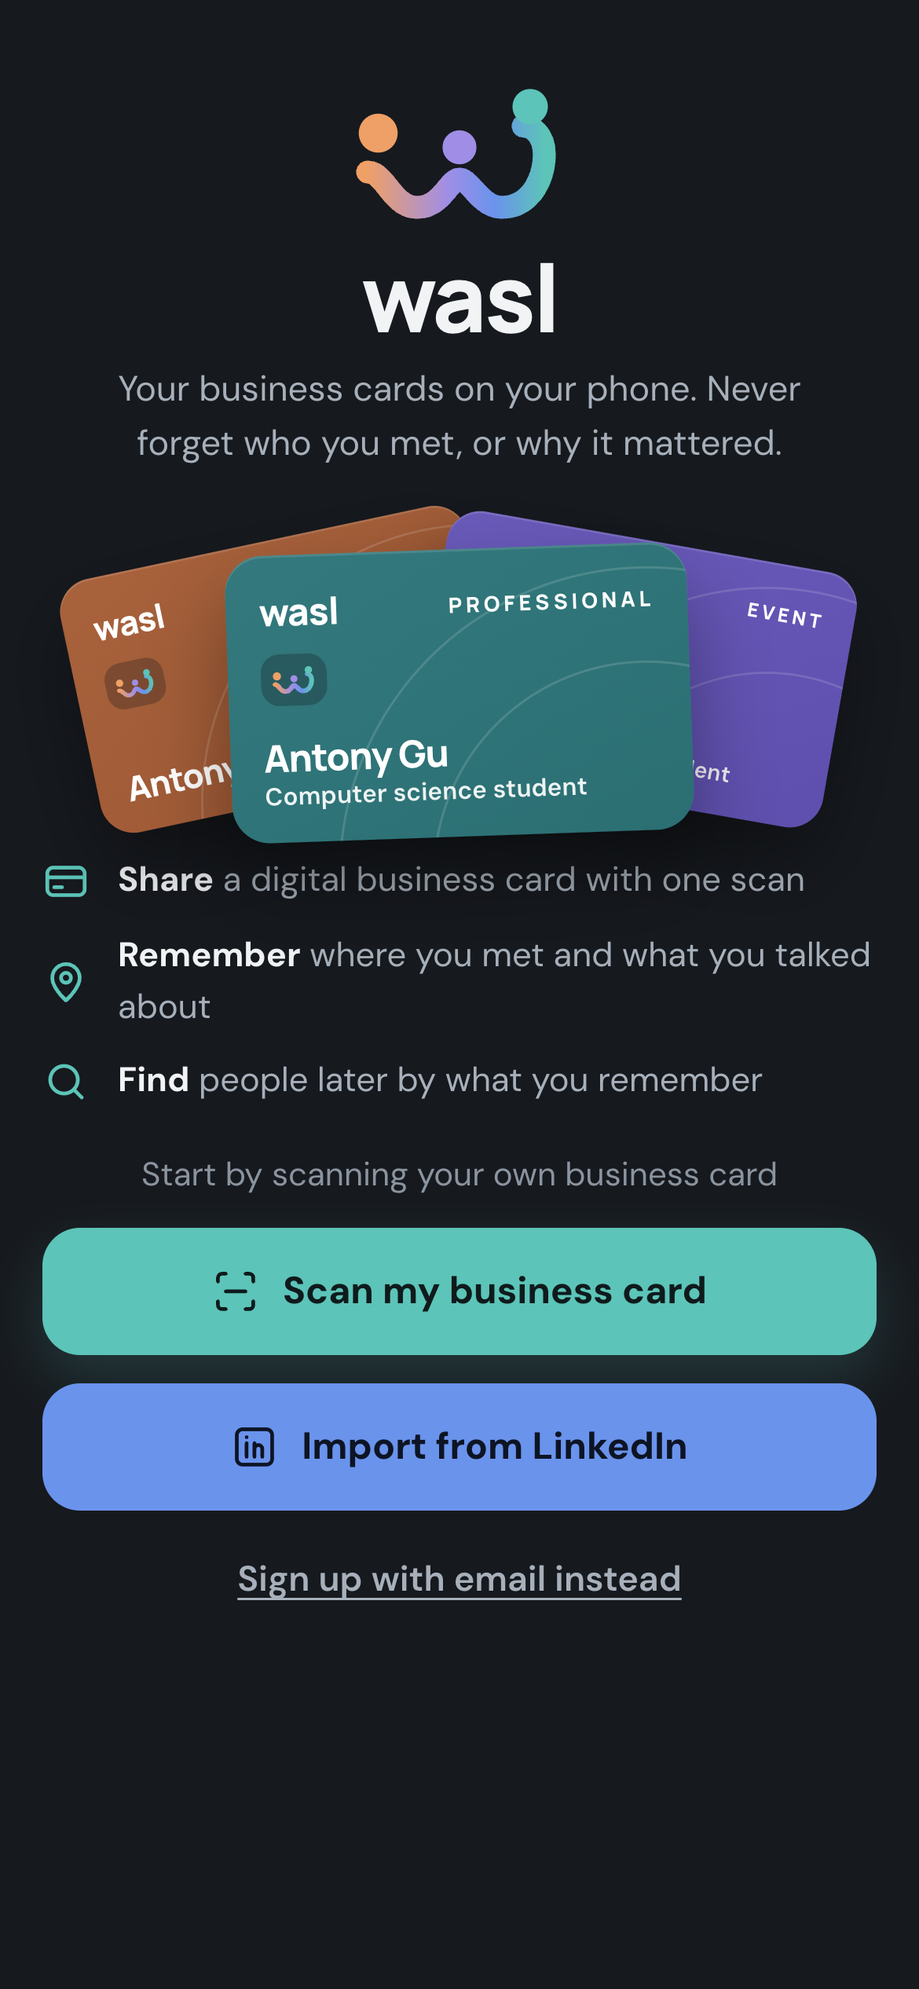
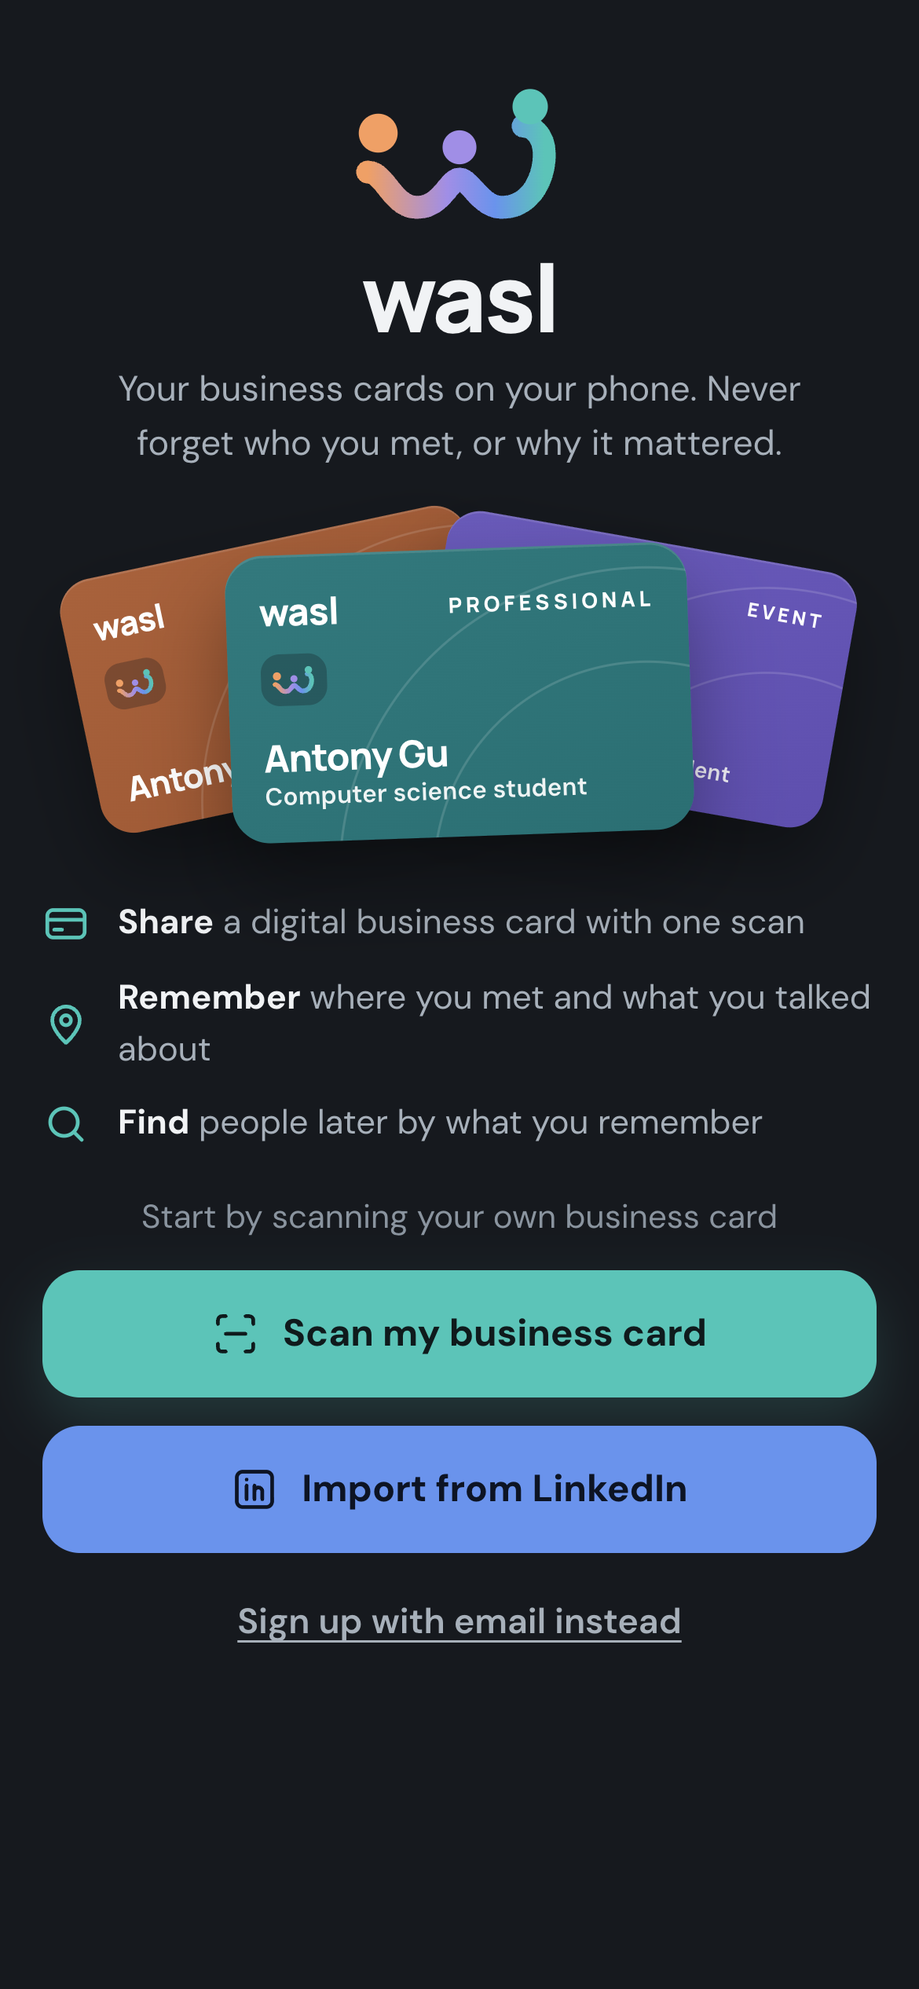
Fix Deema's mockup points: no name before the scan, card text no longer overlaps, editable meeting place, every person opens, search ranks by saved tags and finds names, more room on the join screen

Changed region(s): [[0.0308, 0.4368, 0.9538, 0.8424]]

diff --git a/public/mockup/index.html b/public/mockup/index.html
@@ -304,9 +304,8 @@ h1, h2, h3 { font-family: var(--display); text-wrap: balance; }
   border-radius: 22px;
   padding: 16px 18px;
   color: var(--card-text);
-  overflow: hidden;
+  overflow: clip;
   aspect-ratio: 1.6 / 1;
-  min-height: 0;
   max-width: 100%;
   display: flex; flex-direction: column;
   box-shadow: 0 18px 34px rgba(0, 0, 0, 0.35), inset 0 1px 0 rgba(255, 255, 255, 0.12);
@@ -314,6 +313,7 @@ h1, h2, h3 { font-family: var(--display); text-wrap: balance; }
   border: 0;
   width: 100%;
 }
+.card > * { flex-shrink: 0; }
 .card::before, .card::after {
   content: "";
   position: absolute;
@@ -372,7 +372,7 @@ h1, h2, h3 { font-family: var(--display); text-wrap: balance; }
 .join-hero svg.big { width: 96px; height: 62px; }
 .join-hero .wm { font-family: var(--display); font-weight: 800; font-size: 40px; letter-spacing: -1.2px; line-height: 1; }
 .join-hero p { color: var(--text-2); max-width: 30ch; }
-.fan { position: relative; height: 150px; margin: 10px 0 4px; }
+.fan { position: relative; height: 150px; margin: 10px 0 22px; }
 .what { list-style: none; margin: 0; padding: 0; display: grid; gap: 10px; }
 .what li { display: flex; align-items: center; gap: 12px; font-size: 14.5px; color: var(--text-2); }
 .what li svg { width: 20px; height: 20px; color: var(--teal); flex: none; }
@@ -505,6 +505,9 @@ h1, h2, h3 { font-family: var(--display); text-wrap: balance; }
 .choice > svg { width: 18px; height: 18px; color: var(--muted); margin-left: auto; flex: none; }
 .sharing { margin-top: 22px; }
 .sharing .card { max-width: 300px; margin: 8px auto 0; }
+.card.waiting { background: transparent; box-shadow: none; border: 2px dashed var(--line); color: var(--text-2); display: grid; place-content: center; justify-items: center; gap: 10px; text-align: center; font-size: 14px; }
+.card.waiting::before, .card.waiting::after { display: none; }
+.card.waiting svg { width: 34px; height: 34px; color: var(--muted); }
 .exchange .pulse { position: absolute; left: 50%; top: 50%; width: 52px; height: 52px; margin: -26px; border-radius: 50%; display: grid; place-items: center; background: var(--raised); color: var(--teal); z-index: 2; }
 .exchange .pulse svg { width: 24px; height: 24px; }
 .exchange.swapping .pulse { animation: buzz 120ms linear 6; }
@@ -786,11 +789,11 @@ h1, h2, h3 { font-family: var(--display); text-wrap: balance; }
     { id: "sara", name: "Sara Nasser", role: "Talent partner", org: "Corniche Capital", contacts: ["sara@corniche.example"], color: "team", kind: "PROFESSIONAL", note: "Runs their internship program" },
   ];
   const OLDER = [
-    { name: "Hamad Al-Thani", role: "Mentor, venture studio", org: "Bayt Ventures", event: "Web Summit Qatar", tag: "Mentor", color: "pro", when: "Oct 12" },
-    { name: "Noor Saleh", role: "UX researcher", org: "Dhow Design Studio", event: "Web Summit Qatar", tag: "Follow up", color: "event", when: "Oct 12" },
-    { name: "Daniel Okafor", role: "CMU-Q alum, SWE", org: "Pearl Labs", event: "CMU-Q alumni mixer", tag: "Intro offered", color: "team", when: "Sep 28" },
-    { name: "Aisha Rahman", role: "Product manager", org: "Falcon Analytics", event: "CMU-Q alumni mixer", tag: "Hiring", color: "social", when: "Sep 28" },
-    { name: "Karim Mansour", role: "Investor", org: "Corniche Capital", event: "Web Summit Qatar", tag: "Investor", color: "pro", when: "Oct 12" },
+    { id: "hamad", name: "Hamad Al-Thani", role: "Mentor, venture studio", org: "Bayt Ventures", event: "Web Summit Qatar", tag: "Mentor", color: "pro", when: "Oct 12" },
+    { id: "noor", name: "Noor Saleh", role: "UX researcher", org: "Dhow Design Studio", event: "Web Summit Qatar", tag: "Follow up", color: "event", when: "Oct 12" },
+    { id: "daniel", name: "Daniel Okafor", role: "CMU-Q alum, SWE", org: "Pearl Labs", event: "CMU-Q alumni mixer", tag: "Intro offered", color: "team", when: "Sep 28" },
+    { id: "aisha", name: "Aisha Rahman", role: "Product manager", org: "Falcon Analytics", event: "CMU-Q alumni mixer", tag: "Hiring", color: "social", when: "Sep 28" },
+    { id: "karim", name: "Karim Mansour", role: "Investor", org: "Corniche Capital", event: "Web Summit Qatar", tag: "Investor", color: "pro", when: "Oct 12" },
   ];
   const LOGOS = {
     "Pearl Labs": ["PL", "#1f4fa3"],
@@ -812,6 +815,8 @@ h1, h2, h3 { font-family: var(--display); text-wrap: balance; }
     const words = org.split(/\s+/).filter((w) => /^[A-Za-z]/.test(w) && !/^(of|in|the|and|for|at|&)$/i.test(w));
     return words.slice(0, 3).map((w) => w[0].toUpperCase()).join("") || org.slice(0, 2).toUpperCase();
   }
+  const CTX_EVENTS = ["Campus networking night", "CMU-Q alumni mixer", "Web Summit Qatar", "Coffee chat"];
+  const CTX_PLACES = ["Education City, Doha", "Msheireb Downtown", "Online"];
   const TAGS = ["Hiring", "Intro offered", "Follow up", "Mentor", "Investor", "Co-founder"];
   const SUGGESTIONS = [
     "the engineer who offered me an intro to her CTO",
@@ -841,6 +846,9 @@ h1, h2, h3 { font-family: var(--display); text-wrap: balance; }
     mariamSaved: false,
     ctxConfirmed: false,
     tags: [],
+    ctx: { event: "Campus networking night", place: "Education City, Doha", edited: false },
+    notes: {}, // notes typed on other people's pages, by person id
+    personId: null,
     consent: false,
     rec: "idle", // idle | recording | summarizing
     summary: false,
@@ -1106,7 +1114,7 @@ h1, h2, h3 { font-family: var(--display); text-wrap: balance; }
 
     exchange() {
       const kind = kindName(S.front);
-      // first ask whether the other person has Wasl, so Mariam only appears when she does
+      // first ask whether the other person has Wasl; nobody is named until their code is scanned
       if (S.exPhase === "ask")
         return `${back("wallet", "Cards")}
           <h2 class="title" style="font-size:26px">Share your ${kind} card</h2>
@@ -1124,7 +1132,7 @@ h1, h2, h3 { font-family: var(--display); text-wrap: balance; }
           <div style="margin:18px 0">${personCard(p)}</div>
           <div class="stack">
             <button class="btn" data-go="network">${ic("network")}Open my network</button>
-            <button class="link" data-go="exchange-swap">Swap cards with Mariam instead</button>
+            <button class="link" data-go="exchange-reset">Share with someone else</button>
           </div>`;
       }
       if (S.exPhase === "paper")
@@ -1153,14 +1161,14 @@ h1, h2, h3 { font-family: var(--display); text-wrap: balance; }
           <div style="margin:18px 0">${personCard(MARIAM)}</div>
           <button class="btn" data-go="save">${ic("check")}Save Mariam</button>`;
       return `${back("exchange-reset", "Back")}
-        <h2 class="title" style="font-size:26px">Swap cards with Mariam</h2>
-        <p class="sub">Scan Mariam's code, or let her scan yours.</p>
+        <h2 class="title" style="font-size:26px">Swap cards</h2>
+        <p class="sub">Scan their Wasl code, or let them scan yours.</p>
         <div class="row" style="margin-top:14px">
           <div style="width:72px;height:72px;flex:none">${qrSvg(7)}</div>
-          <button class="btn" data-act="do-swap" ${S.exPhase === "swapping" ? "disabled" : ""}>${ic("scan")}Scan Mariam's code</button>
+          <button class="btn" data-act="do-swap" ${S.exPhase === "swapping" ? "disabled" : ""}>${ic("scan")}Scan their code</button>
         </div>
         <div class="exchange ${S.exPhase === "swapping" ? "swapping" : ""}" id="exchange">
-          <div class="slot theirs"><div class="who">Mariam's phone</div>${personCard(MARIAM)}</div>
+          <div class="slot theirs"><div class="who">Their phone</div>${S.exPhase === "swapping" ? personCard(MARIAM) : `<div class="card waiting">${ic("qr")}<span>Their card shows up after you scan</span></div>`}</div>
           <div class="pulse">${ic("swap")}</div>
           <div class="slot yours"><div class="who">Your card</div>${card(S.front)}</div>
         </div>`;
@@ -1173,8 +1181,8 @@ h1, h2, h3 { font-family: var(--display); text-wrap: balance; }
         <p class="sub">${confirmed ? "Saved. Add a tag so you remember why." : "From your calendar and location. Just confirm it."}</p>
         <div style="margin:16px 0">${personCard(MARIAM)}</div>
         <div class="panel ctx">
-          <div class="item">${ic("calendar")}<div><b>Campus networking night</b><span class="src">From your calendar</span></div></div>
-          <div class="item">${ic("pin")}<div><b>Education City, Doha</b><span class="src">From your location</span></div></div>
+          <div class="item">${ic("calendar")}<div><b>${esc(S.ctx.event)}</b><span class="src">${S.ctx.edited ? "You picked this" : "From your calendar"}</span></div></div>
+          <div class="item">${ic("pin")}<div><b>${esc(S.ctx.place)}</b><span class="src">${S.ctx.edited ? "You picked this" : "From your location"}</span></div></div>
           <div class="item">${ic("clock")}<div><b>Tonight, 7:40 PM</b><span class="src">When you swapped cards</span></div></div>
           ${confirmed ? `<div class="confirmed" style="margin-top:6px">${ic("check")}Saved to Mariam's story</div>` : `<div class="row" style="margin-top:8px"><button class="btn small" data-act="confirm-ctx">${ic("check")}That's right</button><button class="btn small secondary" data-act="change-ctx">Change</button></div>`}
         </div>
@@ -1191,7 +1199,7 @@ h1, h2, h3 { font-family: var(--display); text-wrap: balance; }
       return `${back("network", "Network")}
         <div style="margin:8px 0 12px">${personCard(MARIAM)}</div>
         <div class="chips" style="margin-bottom:14px">
-          <span class="chip">${ic("calendar")}${S.ctxConfirmed ? "Campus networking night" : "Where did you meet?"}</span>
+          <span class="chip">${ic("calendar")}${S.ctxConfirmed ? esc(S.ctx.event) : "Where did you meet?"}</span>
           ${S.tags.map((t) => `<span class="chip" aria-pressed="true">${ic("tag")}${t}</span>`).join("")}
         </div>
         <div class="label">Memory</div>
@@ -1273,6 +1281,23 @@ h1, h2, h3 { font-family: var(--display); text-wrap: balance; }
         <div style="margin-top:6px">${list}</div>`;
     },
 
+    person() {
+      const p = peopleList().find((x) => x.id === S.personId);
+      if (!p) return `${back("network", "Network")}<p class="sub">This person isn't in your network anymore.</p>`;
+      const note = S.notes[p.id] || p.note;
+      const contacts = p.contacts || [];
+      return `${back("network", "Network")}
+        <div style="margin:8px 0 12px">${personCard({ ...p, contacts: contacts.length ? contacts : [p.event] })}</div>
+        <div class="chips" style="margin-bottom:14px">
+          ${p.event ? `<span class="chip">${ic("calendar")}${esc(p.event)}</span>` : ""}
+          ${p.tag ? `<span class="chip" aria-pressed="true">${ic("tag")}${esc(p.tag)}</span>` : ""}
+          ${p.when ? `<span class="chip">${ic("clock")}${esc(p.when)}</span>` : ""}
+        </div>
+        <div class="label">Memory</div>
+        <div class="panel" style="margin-top:8px">${note ? `<p style="margin:0">${esc(note)}</p>` : `<p class="sub" style="margin:0">Nothing saved yet. Add what you talked about so you can find ${esc(p.name.split(" ")[0])} later.</p>`}</div>
+        <button class="btn secondary" style="margin-top:14px" data-act="type-note">${ic("plus")}${note ? "Change the note" : "Add a note"}</button>`;
+    },
+
     album() {
       const a = albums().find((x) => x.name === S.album) || albums()[0];
       const ps = peopleList().filter(a.match);
@@ -1324,7 +1349,7 @@ h1, h2, h3 { font-family: var(--display); text-wrap: balance; }
   function peopleList() {
     const tonight = TONIGHT.map((p) => ({
       ...p,
-      event: "Campus networking night",
+      event: p.id === "mariam" ? S.ctx.event : "Campus networking night",
       tag: p.id === "mariam" ? (S.tags[0] || "Intro offered") : p.id === "sara" ? "Hiring" : p.id === "yousef" ? "Co-founder" : "Follow up",
       when: "Tonight",
       fav: S.debrief[p.id] === "fav",
@@ -1347,7 +1372,7 @@ h1, h2, h3 { font-family: var(--display); text-wrap: balance; }
   }
   function personRow(p) {
     const initials = p.name.split(" ").map((w) => w[0]).slice(0, 2).join("");
-    const act = p.id === "mariam" ? 'data-go="remember"' : "";
+    const act = p.id === "mariam" ? 'data-go="remember"' : `data-act="open-person" data-pid="${esc(p.id)}"`;
     return `<li><button class="person" ${act}><span class="mini" style="background:var(--card-${p.color})">${initials}</span><span class="pv"><b>${esc(p.name)}</b><span>${esc(p.hideWork ? p.contacts.join(" · ") : `${p.role} · ${p.org}`)}</span></span>${p.fav ? ic("star", 'class="star"') : ""}<span class="label" style="flex:none">${esc(p.when)}</span></button></li>`;
   }
   // words that matter in a question, cut to a short stem so "intro" matches "introduce"
@@ -1365,7 +1390,7 @@ h1, h2, h3 { font-family: var(--display); text-wrap: balance; }
     const has = (...w) => w.some((x) => t.includes(x));
     const m = TONIGHT;
     const out = [];
-    const memSrc = () => (S.memory && S.memory.source === "voice" ? "Your recorded chat · Campus networking night, tonight" : S.memory && S.memory.source === "note" ? "Your note · Campus networking night, tonight" : "Your chat summary · Campus networking night, tonight");
+    const memSrc = () => `${S.memory && S.memory.source === "voice" ? "Your recorded chat" : S.memory && S.memory.source === "note" ? "Your note" : "Your chat summary"} · ${S.ctx.event}, tonight`;
     const hit = memoryHit(q);
     const older = (i, contacts, kind) => ({ ...OLDER[i], contacts, kind });
     if (has("going", "attend", "summit")) {
@@ -1373,8 +1398,12 @@ h1, h2, h3 { font-family: var(--display); text-wrap: balance; }
       out.push({ p: older(4, ["karim@corniche.example"], "PROFESSIONAL"), label: "Going · worth meeting", score: 92, why: "Investor you met at Web Summit Qatar. You tagged him Investor.", src: "Event guest list · Web Summit Qatar, Nov 4" });
       out.push({ p: older(0, ["linkedin.com/in/hamadalthani"], "PROFESSIONAL"), label: "Also going", score: 80, why: "Mentor at Bayt Ventures. Offered to review your pitch.", src: "Event guest list · Web Summit Qatar, Nov 4" });
     } else if (has("cto", "intro", "engineer", "pearl", "payments")) {
-      out.push({ p: m[0], score: 94, why: hit || "Software engineer at Pearl Labs", src: hit ? memSrc() : "Her card · Campus networking night, tonight" });
-      if (has("intro")) out.push({ p: { ...OLDER[2], contacts: ["daniel@pearllabs.example"], kind: "PROFESSIONAL" }, score: 61, why: "Tagged Intro offered", src: "Your tag · CMU-Q alumni mixer, Sep 28" });
+      // rank by what you actually saved: a memory or an "Intro offered" tag beats a job title
+      const asksIntro = has("cto", "intro");
+      if (hit) out.push({ p: m[0], score: 94, why: hit, src: memSrc() });
+      else if (asksIntro && S.mariamSaved && S.tags.includes("Intro offered")) out.push({ p: m[0], score: 86, why: "Tagged Intro offered", src: `Your tag · ${S.ctx.event}, tonight` });
+      else if (has("engineer", "pearl", "payments")) out.push({ p: m[0], score: asksIntro ? 58 : 90, why: "Software engineer at Pearl Labs", src: `Her card · ${S.ctx.event}, tonight` });
+      if (asksIntro) out.push({ p: { ...OLDER[2], contacts: ["daniel@pearllabs.example"], kind: "PROFESSIONAL" }, score: 88, why: "Tagged Intro offered", src: "Your tag · CMU-Q alumni mixer, Sep 28" });
     } else if (has("design", "portfolio")) {
       out.push({ p: m[1], score: 91, why: "Showed his portfolio app", src: "Your memory · Campus networking night, tonight" });
     } else if (has("hiring", "intern", "job", "recruit")) {
@@ -1387,8 +1416,17 @@ h1, h2, h3 { font-family: var(--display); text-wrap: balance; }
     }
     // anything Mariam said in your recorded chat or note
     if (hit && !out.some((r) => r.p.id === "mariam")) out.unshift({ p: m[0], score: 86, why: hit, src: memSrc() });
+    // a name you remember, even just the last name
+    const words = new Set((t.match(/[a-z]+/g) || []).filter((w) => w.length > 2));
+    for (const p of peopleList()) {
+      if (out.some((r) => r.p.id === p.id)) continue;
+      const nameHit = p.name.toLowerCase().split(/[\s-]+/).find((w) => words.has(w));
+      if (nameHit) out.push({ p, score: 97, why: `Name: ${p.name}`, src: `${p.kind === "PAPER CARD" ? "Scanned paper card" : "Their card"} · ${p.event || "Your network"}${p.when ? ", " + p.when.toLowerCase() : ""}` });
+      else if (S.notes[p.id] && overlap(q, S.notes[p.id]) > 0) out.push({ p, score: 85, why: S.notes[p.id], src: `Your note · ${p.event || "Your network"}` });
+    }
     // people you scanned from paper cards, by what they do or where they work
     for (const sp of S.scanned) {
+      if (out.some((r) => r.p.id === sp.id)) continue;
       const n = overlap(q, `${sp.role} ${sp.org}`);
       if (n > 0) out.push({ p: sp, score: Math.min(95, 70 + n * 10), why: [sp.role, sp.org].filter(Boolean).join(" at "), src: "Scanned paper card · Campus networking night, tonight" });
     }
@@ -1400,7 +1438,7 @@ h1, h2, h3 { font-family: var(--display); text-wrap: balance; }
   const tabbar = document.getElementById("tabbar");
   const overlay = document.getElementById("overlay");
   const TABS = [["network", "Network"], ["wallet", "Cards"], ["recall", "Search"], ["profile", "Profile"], ["settings", "Settings"]];
-  const TAB_OF = { network: "network", album: "network", debrief: "network", remember: "network", wallet: "wallet", build: "wallet", exchange: "wallet", scanner: "wallet", save: "wallet", recall: "recall", profile: "profile", settings: "settings" };
+  const TAB_OF = { network: "network", album: "network", debrief: "network", remember: "network", person: "network", wallet: "wallet", build: "wallet", exchange: "wallet", scanner: "wallet", save: "wallet", recall: "recall", profile: "profile", settings: "settings" };
   let lastScreen = null;
 
   function render() {
@@ -1437,7 +1475,7 @@ h1, h2, h3 { font-family: var(--display); text-wrap: balance; }
     note: () => `<div class="scrim" data-act="close-sheet"><div class="sheet" data-stop>
       <div class="grab"></div>
       <h3>Add a note</h3>
-      <div class="search" style="padding:6px 14px"><input id="noteInput" value="" placeholder="e.g. Offered an intro to her CTO. Pearl Labs is hiring interns." aria-label="Note"></div>
+      <div class="search" style="padding:6px 14px"><input id="noteInput" value="" placeholder="${S.screen === "person" ? "e.g. Wants to stay in touch about internships." : "e.g. Offered an intro to her CTO. Pearl Labs is hiring interns."}" aria-label="Note"></div>
       <button class="btn" data-act="save-note">${ic("check")}Save note</button>
     </div></div>`,
     email: () => `<div class="scrim" data-act="close-sheet"><div class="sheet" data-stop>
@@ -1446,6 +1484,16 @@ h1, h2, h3 { font-family: var(--display); text-wrap: balance; }
       <p class="sub">Email sign-up is still there. In this mockup, the card scan is the fast path.</p>
       <button class="btn" data-act="scan-own">${ic("scan")}Scan my card instead</button>
       <button class="link" data-act="close-sheet">Close</button>
+    </div></div>`,
+    ctx: () => `<div class="scrim" data-act="close-sheet"><div class="sheet" data-stop>
+      <div class="grab"></div>
+      <h3>Where did you meet?</h3>
+      <div class="label">Event</div>
+      <div class="chips">${CTX_EVENTS.map((v) => `<button class="chip" data-act="pick-ctx" data-k="event" data-v="${esc(v)}" aria-pressed="${S.ctx.event === v}">${ic(S.ctx.event === v ? "check" : "calendar")}${esc(v)}</button>`).join("")}</div>
+      <div class="search" style="padding:6px 14px"><input id="ctxInput" value="" placeholder="Or type another event" aria-label="Another event"></div>
+      <div class="label">Place</div>
+      <div class="chips">${CTX_PLACES.map((v) => `<button class="chip" data-act="pick-ctx" data-k="place" data-v="${esc(v)}" aria-pressed="${S.ctx.place === v}">${ic(S.ctx.place === v ? "check" : "pin")}${esc(v)}</button>`).join("")}</div>
+      <button class="btn" data-act="save-ctx">${ic("check")}Save</button>
     </div></div>`,
     album: () => `<div class="scrim" data-act="close-sheet"><div class="sheet" data-stop>
       <div class="grab"></div>
@@ -1588,7 +1636,15 @@ h1, h2, h3 { font-family: var(--display); text-wrap: balance; }
       xpToast("New connection", 30);
     },
     "confirm-ctx"() { S.ctxConfirmed = true; S.mariamSaved = true; render(); xpToast("Story saved", 10); },
-    "change-ctx"() { toast("You can pick another event or place here"); },
+    "change-ctx"() { S.sheet = "ctx"; render(); },
+    "pick-ctx"(el) { S.ctx[el.dataset.k] = el.dataset.v; S.ctx.edited = true; render(); },
+    "save-ctx"() {
+      const typed = (document.getElementById("ctxInput")?.value || "").trim();
+      if (typed) { S.ctx.event = typed; S.ctx.edited = true; }
+      S.ctxConfirmed = true; S.mariamSaved = true; S.sheet = null;
+      render();
+      xpToast("Story saved", 10);
+    },
     tag(el) {
       const t = el.dataset.t;
       const on = S.tags.includes(t);
@@ -1599,7 +1655,16 @@ h1, h2, h3 { font-family: var(--display); text-wrap: balance; }
     agree() { S.consent = true; S.sheet = null; render(); toast("Tap the mic to start recording"); },
     "close-sheet"() { S.sheet = null; render(); },
     "type-note"() { S.sheet = "note"; render(); },
+    "open-person"(el) { S.personId = el.dataset.pid; S.screen = "person"; render(); },
     "save-note"() {
+      if (S.screen === "person") {
+        const typed = (document.getElementById("noteInput")?.value || "").trim();
+        if (typed) S.notes[S.personId] = typed;
+        S.sheet = null;
+        render();
+        if (typed) xpToast("Note saved", 10);
+        return;
+      }
       const text = (document.getElementById("noteInput")?.value || "").trim() || "Offered an intro to her CTO. Pearl Labs is hiring interns.";
       S.memory = { points: keyPoints(splitSentences(text), 4), transcript: "", source: "note" };
       S.sheet = null;
@@ -2160,7 +2225,7 @@ h1, h2, h3 { font-family: var(--display); text-wrap: balance; }
     { n: "7", t: "Search", wow: 3, h: "Find someone by memory, not by name.", screen: "recall" },
   ];
   const WOW = { 1: "WOW 1", 2: "WOW 2", 3: "WOW 3" };
-  const STEP_OF = { join: 0, profile: 0, build: 1, wallet: 2, exchange: 2, save: 3, remember: 4, debrief: 5, network: 6, album: 6, recall: 7, settings: -1 };
+  const STEP_OF = { join: 0, profile: 0, build: 1, wallet: 2, exchange: 2, save: 3, remember: 4, debrief: 5, network: 6, album: 6, person: 6, recall: 7, settings: -1 };
   const stepOf = () => (S.screen === "scanner" ? (S.scan.mode === "own" ? 0 : 2) : STEP_OF[S.screen]);
 
   function setupTo(i) {
